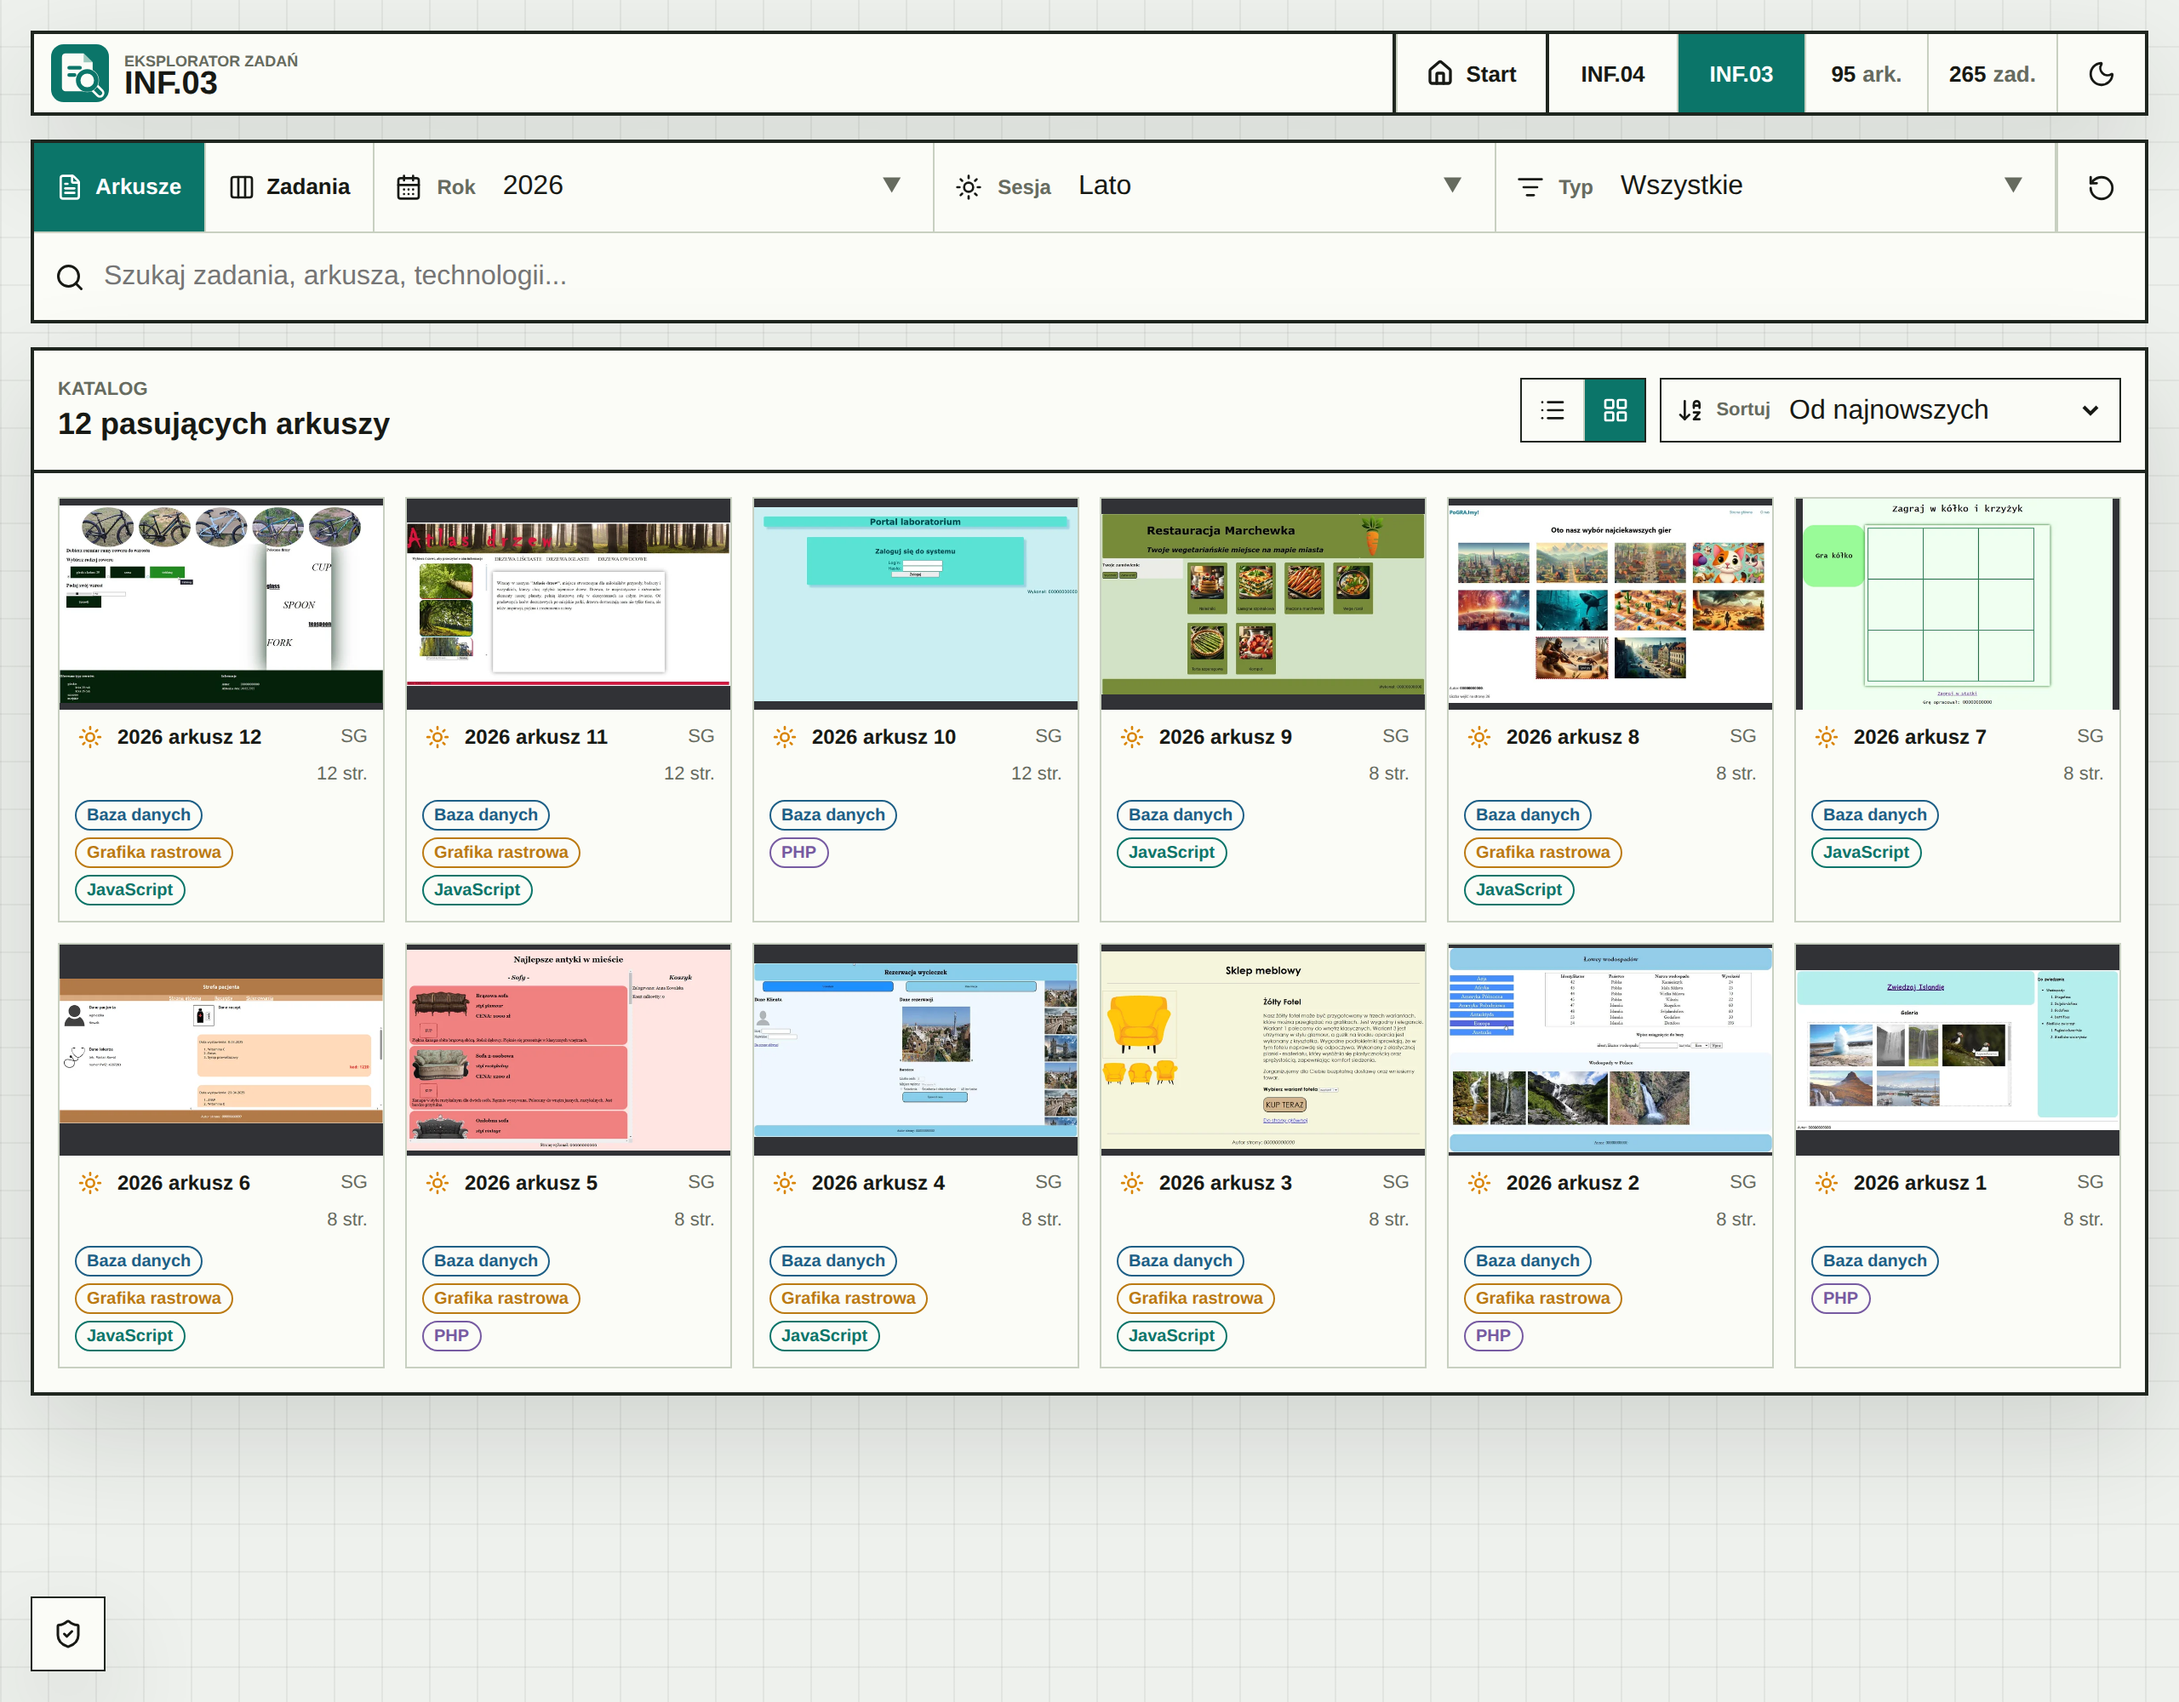
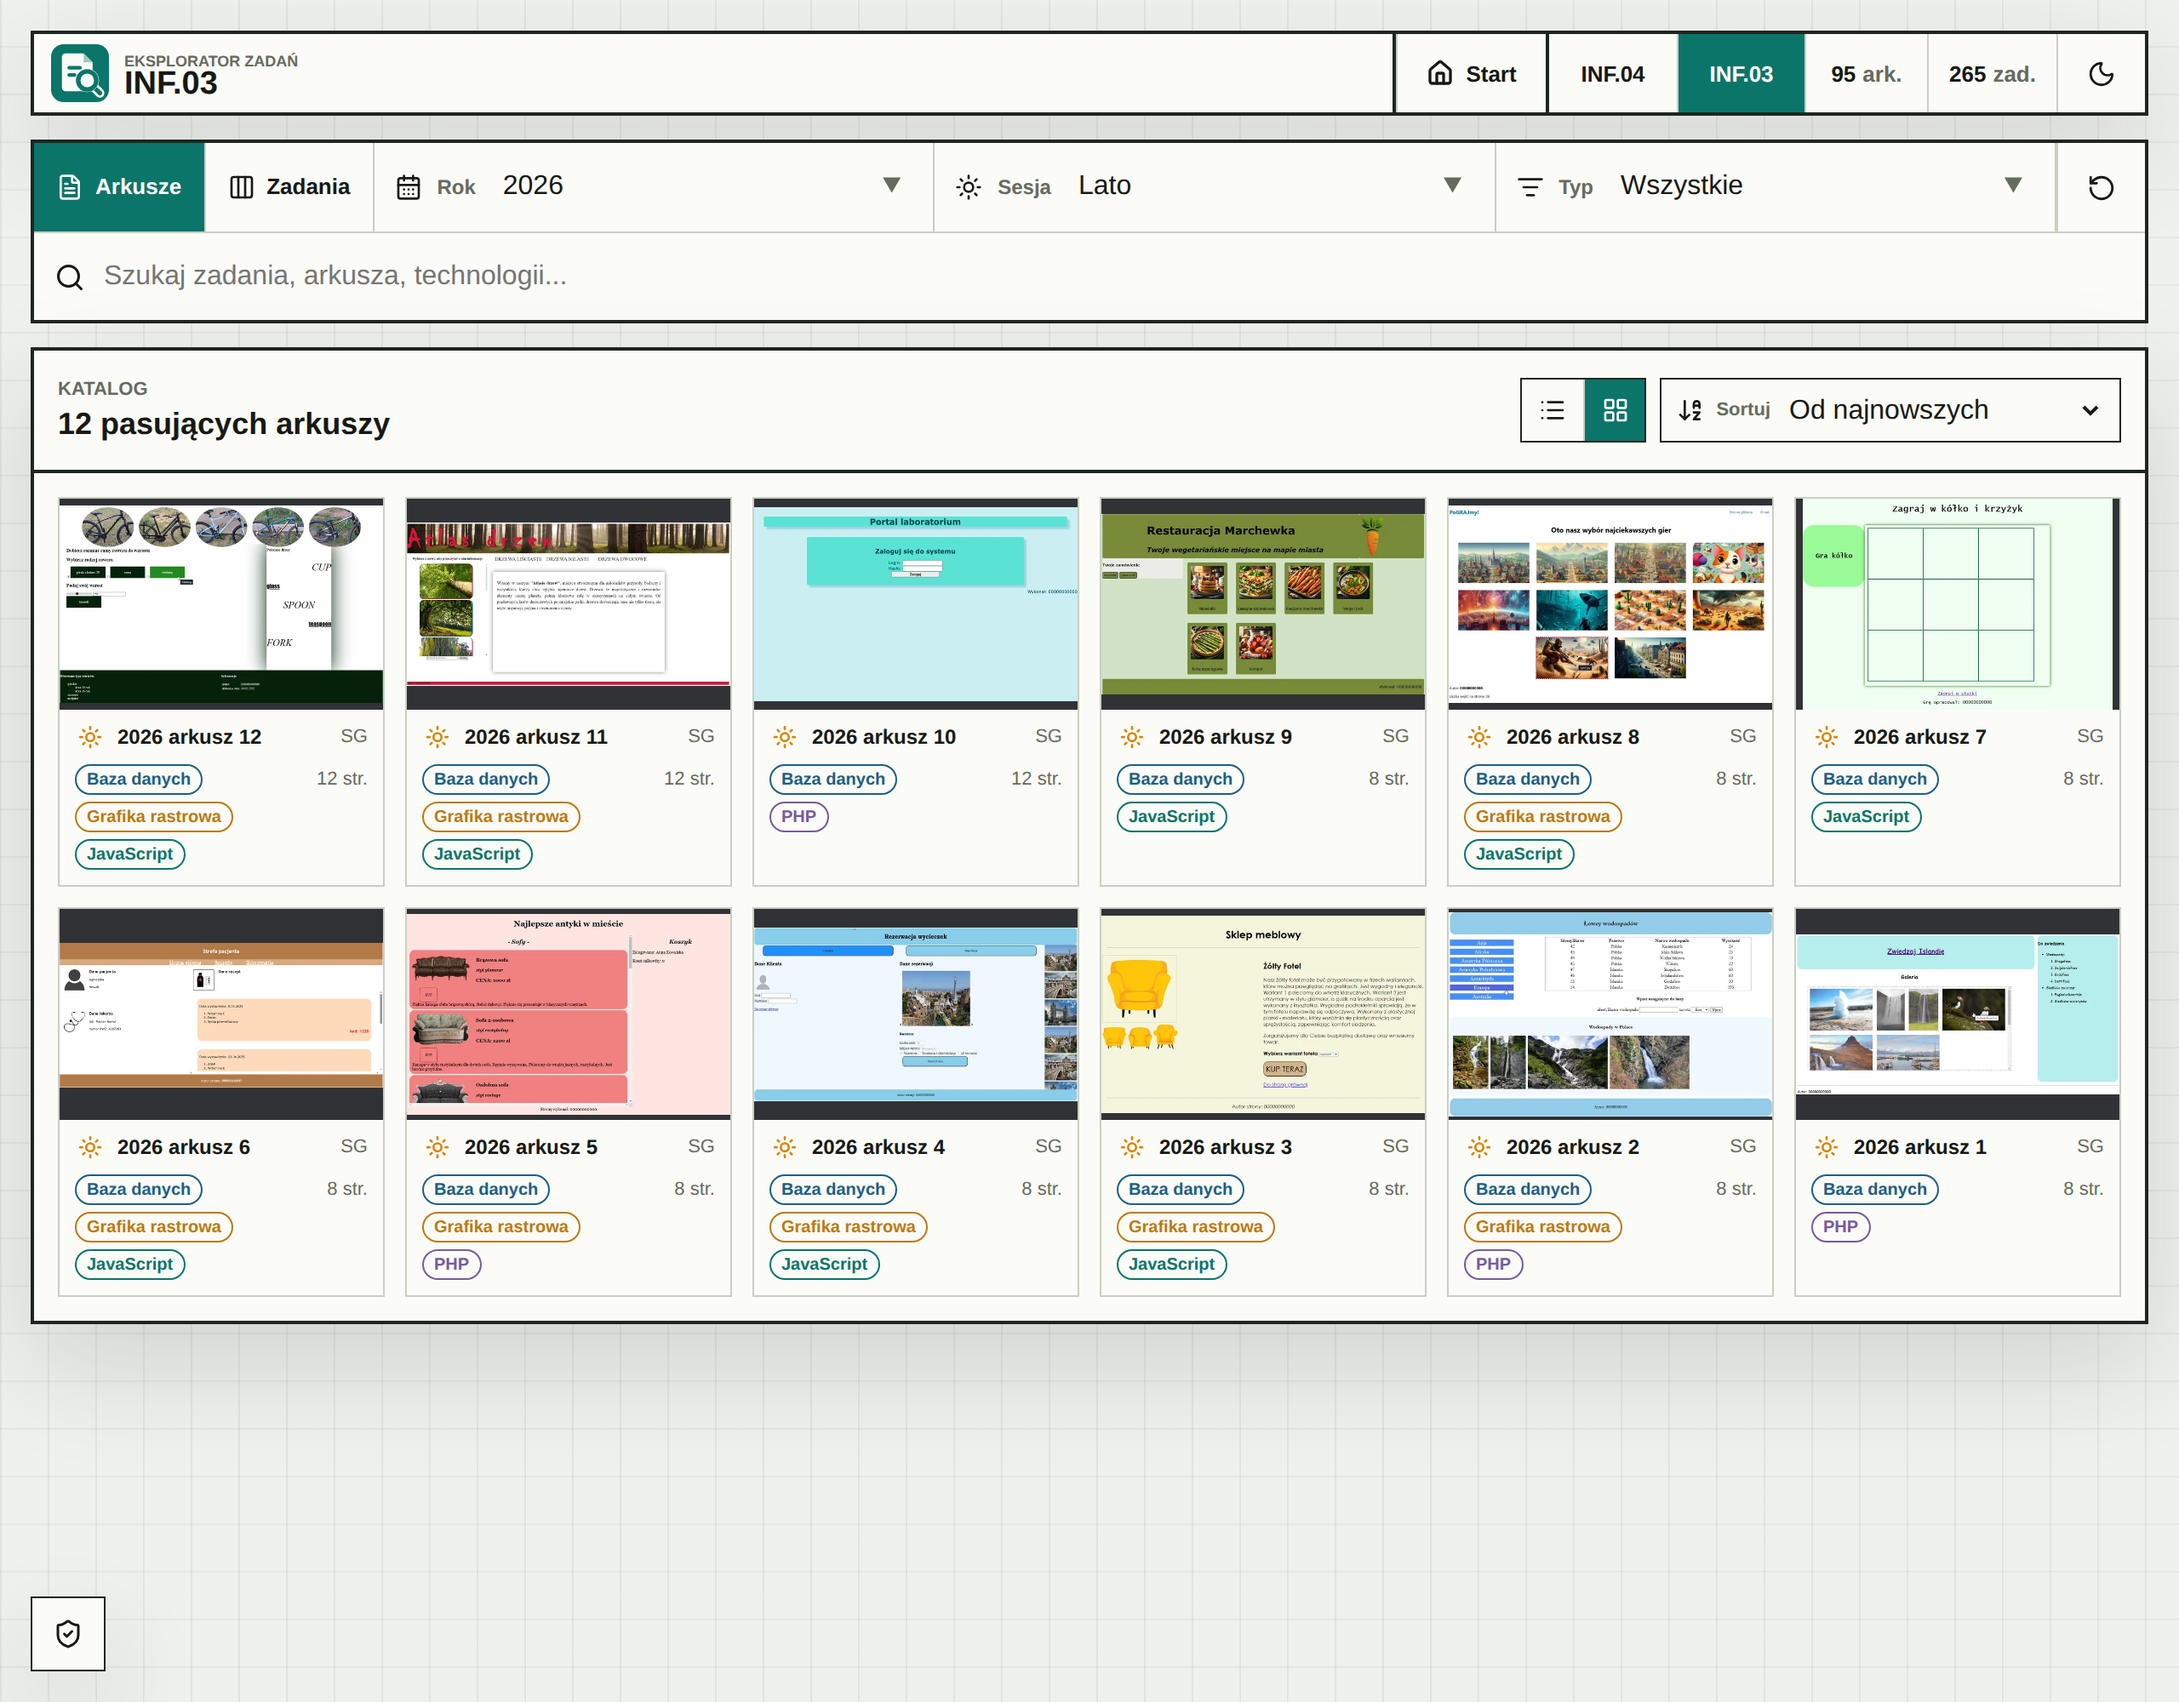
Align page counts with first thumbnail pill

Changed region(s): [[0.0, 0.434, 1.0, 0.837]]

diff --git a/src/components/RegistryPane.tsx b/src/components/RegistryPane.tsx
@@ -383,26 +383,31 @@ function ExamList({
                 showVariant={false}
               />
             )}
-            <span className="exam-meta">
-              {view !== "thumbnails" && (
+            {view !== "thumbnails" && (
+              <span className="exam-meta">
                 <span className="exam-variant">{exam.variant}</span>
-              )}
-              <span className="exam-page-count">{exam.pageCount} str.</span>
-            </span>
+                <span className="exam-page-count">{exam.pageCount} str.</span>
+              </span>
+            )}
             <span className="exam-types">
               {view === "thumbnails" ? (
-                <span className="exam-type-pills">
-                  {examTasks.map((task) => (
-                    <span
-                      className={clsx(
-                        "type-pill",
-                        typeAccent[task.type] ?? "ink",
-                      )}
-                      key={task.id}
-                    >
-                      {typeLabels[task.type] ?? task.type}
-                    </span>
-                  ))}
+                <span className="exam-type-row">
+                  <span className="exam-type-pills">
+                    {examTasks.map((task) => (
+                      <span
+                        className={clsx(
+                          "type-pill",
+                          typeAccent[task.type] ?? "ink",
+                        )}
+                        key={task.id}
+                      >
+                        {typeLabels[task.type] ?? task.type}
+                      </span>
+                    ))}
+                  </span>
+                  <span className="exam-page-count">
+                    {exam.pageCount} str.
+                  </span>
                 </span>
               ) : (
                 examTasks.map((task) => typeLabels[task.type]).join(" / ")

diff --git a/src/styles/registry.css b/src/styles/registry.css
@@ -195,14 +195,11 @@
   white-space: nowrap;
 }
 
-.thumbnail-view .exam-meta {
-  display: flex;
-  width: calc(100% - 18px);
-  margin-inline: 9px;
-  justify-content: flex-end;
-  gap: 8px;
-  color: var(--muted);
-  font-size: 11px;
+.exam-type-row {
+  display: grid;
+  grid-template-columns: minmax(0, 1fr) auto;
+  align-items: start;
+  column-gap: 8px;
 }
 
 .thumbnail-view .exam-types {
@@ -225,6 +222,12 @@
   font-size: 10px;
   font-weight: 700;
   line-height: 1;
+}
+
+.exam-type-row .exam-page-count {
+  font-size: 11px;
+  line-height: 18px;
+  white-space: nowrap;
 }
 
 .exam-page-count {
